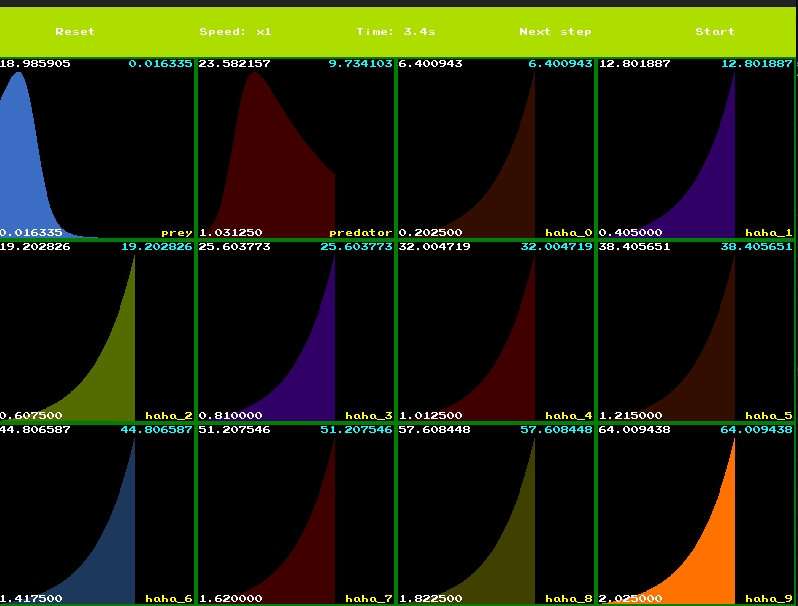
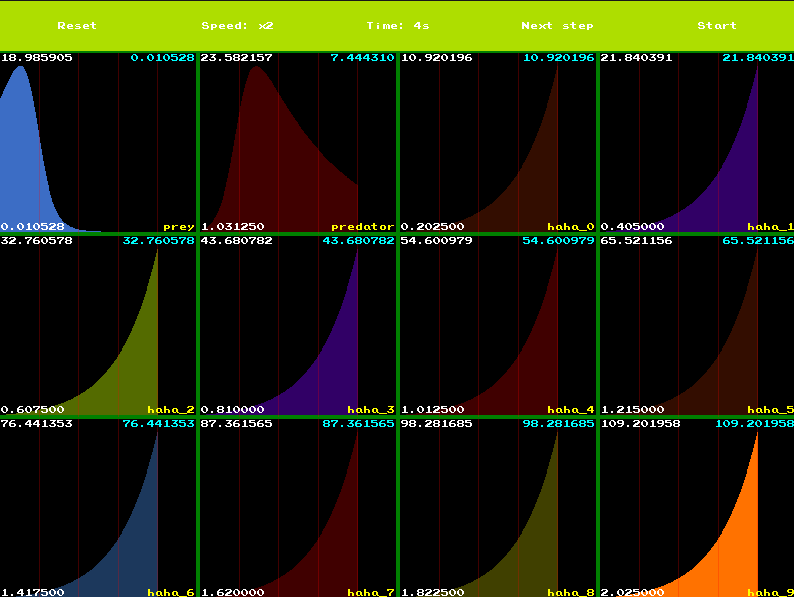
feat: Added grid in equation view

Changed region(s): [[0.0, 0.0, 1.0, 1.0]]

diff --git a/src/ui/EquationView.cc b/src/ui/EquationView.cc
@@ -32,6 +32,7 @@ namespace {
 namespace pge {
 
   constexpr auto MAXIMUM_VALUES_DISPLAYED = 400u;
+  constexpr auto X_GRID_DELTA = 80u;
 
   constexpr auto DEFAULT_VIEWPORT_Y_SPAN = 1.0f;
   constexpr auto THRESHOLD_FOR_BOUNDS_ADJUSTMENT = 0.2f;
@@ -87,64 +88,9 @@ namespace pge {
     const olc::vi2d offset(PIXEL_BORDER_DIMENSIONS, PIXEL_BORDER_DIMENSIONS);
     pge->FillRectDecal(m_pos + offset, m_size - 2 * offset, olc::BLACK);
 
-    // Values.
-    const auto w = (m_size.x - offset.x * 2.0f) / MAXIMUM_VALUES_DISPLAYED;
-
-    for (unsigned id = m_scaling.start ; id < m_values.size() ; ++id) {
-      const auto val = m_values[id];
-      const auto perc = (val - m_scaling.dMin) / (m_scaling.dMax - m_scaling.dMin);
-
-      const auto y = m_size.y * perc;
-
-      olc::vf2d pos{
-        m_pos.x + offset.x + (id - m_scaling.start) * w,
-        m_pos.y + m_size.y - offset.y - y
-      };
-      olc::vf2d dims{w, y};
-
-      pge->FillRectDecal(pos, dims, m_color);
-    }
-
-    pge->DrawStringDecal(
-      m_pos + BORDER_MULTIPLIER_FOR_TEXT * offset,
-      std::to_string(m_scaling.max),
-      olc::WHITE
-    );
-
-    auto txtStr = std::to_string(m_scaling.min);
-    auto txtSz = pge->GetTextSize(txtStr);
-    pge->DrawStringDecal(
-      olc::vf2d(
-        m_pos.x + BORDER_MULTIPLIER_FOR_TEXT * offset.x,
-        m_pos.y + m_size.y - BORDER_MULTIPLIER_FOR_TEXT * offset.y - txtSz.y
-      ),
-      txtStr,
-      olc::WHITE
-    );
-
-    txtStr = std::to_string(m_values.back());
-    txtSz = pge->GetTextSize(txtStr);
-    pge->DrawStringDecal(
-      olc::vf2d(
-        m_pos.x + m_size.x - BORDER_MULTIPLIER_FOR_TEXT * offset.x - txtSz.x,
-        m_pos.y + BORDER_MULTIPLIER_FOR_TEXT * offset.y
-      ),
-      txtStr,
-      olc::CYAN
-    );
-
-
-
-    txtStr = m_variableName;
-    txtSz = pge->GetTextSize(txtStr);
-    pge->DrawStringDecal(
-      olc::vf2d(
-        m_pos.x + m_size.x - BORDER_MULTIPLIER_FOR_TEXT * offset.x - txtSz.x,
-        m_pos.y + m_size.y - BORDER_MULTIPLIER_FOR_TEXT * offset.y - txtSz.y
-      ),
-      txtStr,
-      olc::YELLOW
-    );
+    renderValues(pge);
+    renderGrid(pge);
+    renderText(pge);
   }
 
   menu::InputHandle
@@ -248,4 +194,81 @@ namespace pge {
     m_scaling.dMax = m_scaling.max * (1.0f + MAX_TO_DISPLAY_MARGIN);
   }
 
+  void
+  EquationView::renderValues(olc::PixelGameEngine* pge) const {
+    const olc::vi2d offset(PIXEL_BORDER_DIMENSIONS, PIXEL_BORDER_DIMENSIONS);
+
+    const auto w = (m_size.x - offset.x * 2.0f) / MAXIMUM_VALUES_DISPLAYED;
+
+    for (unsigned id = m_scaling.start ; id < m_values.size() ; ++id) {
+      const auto val = m_values[id];
+      const auto perc = (val - m_scaling.dMin) / (m_scaling.dMax - m_scaling.dMin);
+
+      const auto y = m_size.y * perc;
+
+      olc::vf2d pos{
+        m_pos.x + offset.x + (id - m_scaling.start) * w,
+        m_pos.y + m_size.y - offset.y - y
+      };
+      olc::vf2d dims{w, y};
+
+      pge->FillRectDecal(pos, dims, m_color);
+    }
+  }
+
+  void
+  EquationView::renderGrid(olc::PixelGameEngine* pge) const {
+    const olc::vi2d offset(PIXEL_BORDER_DIMENSIONS, PIXEL_BORDER_DIMENSIONS);
+
+    const auto w = (m_size.x - offset.x * 2.0f) / MAXIMUM_VALUES_DISPLAYED;
+
+    auto color = olc::RED;
+    color.a = alpha::AlmostTransparent;
+
+    for (unsigned id = X_GRID_DELTA ; id < MAXIMUM_VALUES_DISPLAYED ; id += X_GRID_DELTA) {
+      olc::vf2d pos = m_pos + offset + olc::vf2d(id * w, 0.0f);
+      olc::vf2d dims{1.0f, 1.0f * m_size.y};
+
+      pge->FillRectDecal(pos, dims, color);
+    }
+  }
+
+  void
+  EquationView::renderText(olc::PixelGameEngine* pge) const {
+    const olc::vi2d offset(PIXEL_BORDER_DIMENSIONS, PIXEL_BORDER_DIMENSIONS);
+
+    // The maximum value.
+    auto txtStr = std::to_string(m_scaling.max);
+    olc::vf2d txtPos = m_pos + BORDER_MULTIPLIER_FOR_TEXT * offset;
+    auto txtColor = olc::WHITE;
+
+    pge->DrawStringDecal(txtPos, txtStr, txtColor);
+
+    // The minimum value.
+    txtStr = std::to_string(m_scaling.min);
+    auto txtSz = pge->GetTextSize(txtStr);
+    txtPos.x = m_pos.x + BORDER_MULTIPLIER_FOR_TEXT * offset.x;
+    txtPos.y = m_pos.y + m_size.y - BORDER_MULTIPLIER_FOR_TEXT * offset.y - txtSz.y;
+    txtColor = olc::WHITE;
+
+    pge->DrawStringDecal(txtPos, txtStr, txtColor);
+
+    // The current value.
+    txtStr = std::to_string(m_values.back());
+    txtSz = pge->GetTextSize(txtStr);
+    txtPos.x = m_pos.x + m_size.x - BORDER_MULTIPLIER_FOR_TEXT * offset.x - txtSz.x;
+    txtPos.y = m_pos.y + BORDER_MULTIPLIER_FOR_TEXT * offset.y;
+    txtColor = olc::CYAN;
+
+    pge->DrawStringDecal(txtPos, txtStr, txtColor);
+
+    // The name of the variable.
+    txtStr = m_variableName;
+    txtSz = pge->GetTextSize(txtStr);
+    txtPos.x = m_pos.x + m_size.x - BORDER_MULTIPLIER_FOR_TEXT * offset.x - txtSz.x;
+    txtPos.y = m_pos.y + m_size.y - BORDER_MULTIPLIER_FOR_TEXT * offset.y - txtSz.y;
+    txtColor = olc::YELLOW;
+
+    pge->DrawStringDecal(txtPos, txtStr, txtColor);
+  }
 }

diff --git a/src/game/simulation/Simulation.cc b/src/game/simulation/Simulation.cc
@@ -282,7 +282,7 @@ namespace eqdif {
 
   void
   Simulation::initialize() {
-# define DUMMY_SIMULATION
+// # define DUMMY_SIMULATION
 # ifdef DUMMY_SIMULATION
     unsigned count = 10u;
 # endif

diff --git a/README.md b/README.md
@@ -97,5 +97,6 @@ Each view contains all the information needed to interpret the value of the vari
 * on the bottom left, the minimum value is displayed. This is the minimum value of the whole displayed series
 * on the top right (in cyan) the current value of the variable is displayed
 * on the bottom right (in yellow) the name of the variable represented in the view is displayed
+* a vertical line to give a sense of scale every 80 individual values
 
 The color is chosen at random but is only picked so that it is darker enough to see the additional information in the view.
